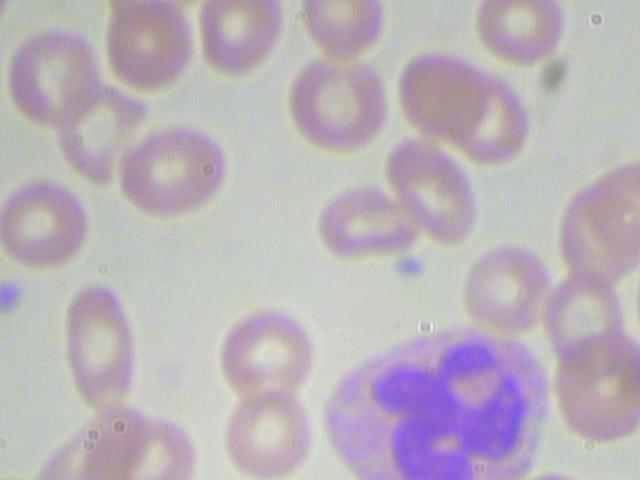
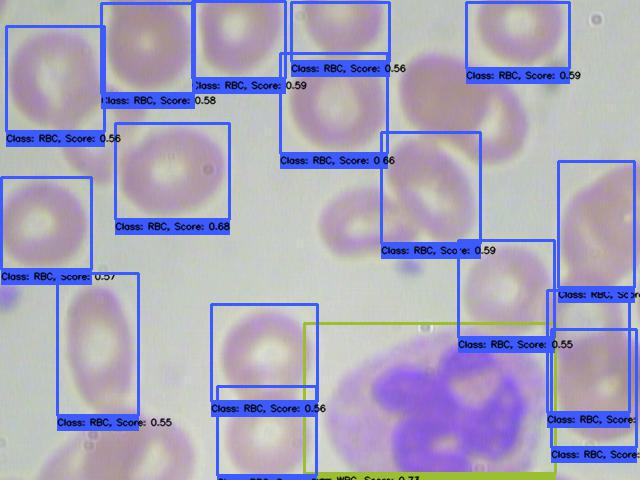
updated the hub resource scripts

Changed region(s): [[0.0, 0.0, 1.0, 1.0], [0.7188, 0.0, 0.9062, 0.1875]]

diff --git a/scripts/bounding_box_hub/hub_prediction_script.py b/scripts/bounding_box_hub/hub_prediction_script.py
@@ -17,35 +17,39 @@ os.environ["CUDA_VISIBLE_DEVICES"] = "-1"
 ## Comment out to set verbose to true
 os.environ["TF_CPP_MIN_LOG_LEVEL"] = "3"
 
+PROJECT_SECRET="<YOUR_PROJECT_SECRET>"
+MODEL_KEY="<YOUR_MODEL_KEY>"
+INPUT_FOLDER = "./Test_Images/"
+OUTPUT_FOLDER = "./Outputs"
+THRESHOLD = 0.5
 
 def main():
     ## Load argument variables
 
     hub_model = HubModel(
[1 lines of base64/hex data omitted]
-        model_key="ded6a6636aa2e1cb1915b8976d32411c",
+        project_secret=PROJECT_SECRET,
+        model_key=MODEL_KEY,
     )
     trained_model = hub_model.load_tf_model()
     category_index = hub_model.load_label_map()
     ## Run prediction on each image
-    for each_image in glob.glob(os.path.join("./Test_Images/", "*")):
+    for each_image in glob.glob(os.path.join(INPUT_FOLDER, "*")):
         print("Predicting for {}...".format(each_image))
         input_tensor = hub_model.load_image_with_model_dimensions(each_image)
         ## Feed image into model
         detections_output = trained_model(input_tensor)
-
         visualized_image = visualize_bbox(
-            each_image, detections_output, category_index, 0.7
+            each_image, detections_output, category_index, THRESHOLD
         )
 
         ## Save predicted image
         filename = os.path.basename(each_image)  # each_image.split("/")[-1]
         image_predict = Image.fromarray(visualized_image)
-        image_predict.save(os.path.join("./Outputs", filename))
+        image_predict.save(os.path.join(OUTPUT_FOLDER, filename))
 
         print(
             "Saving predicted images to {}...".format(
-                os.path.join("./Outputs", filename)
+                os.path.join(OUTPUT_FOLDER, filename)
             )
         )
 
